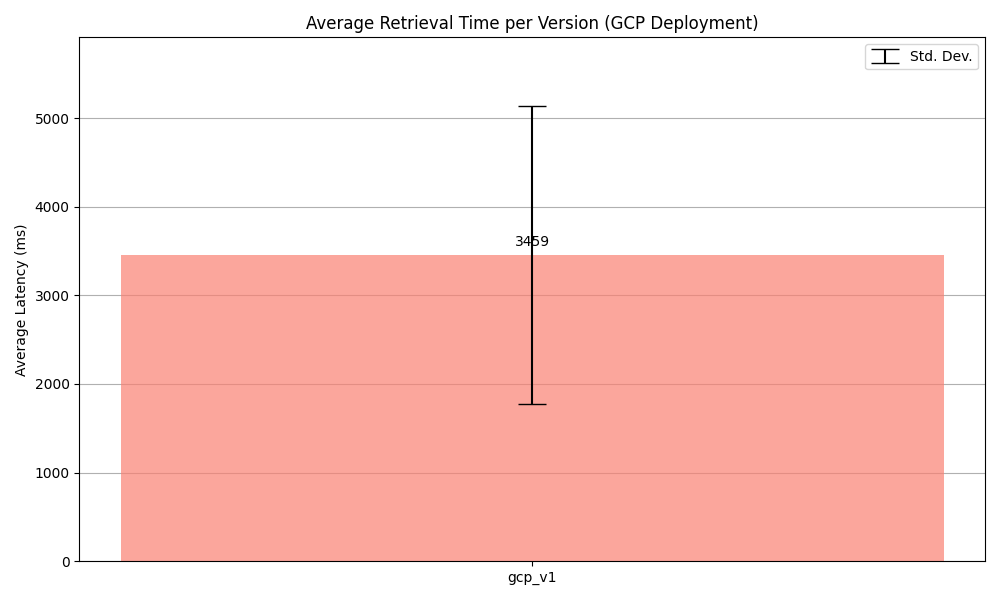
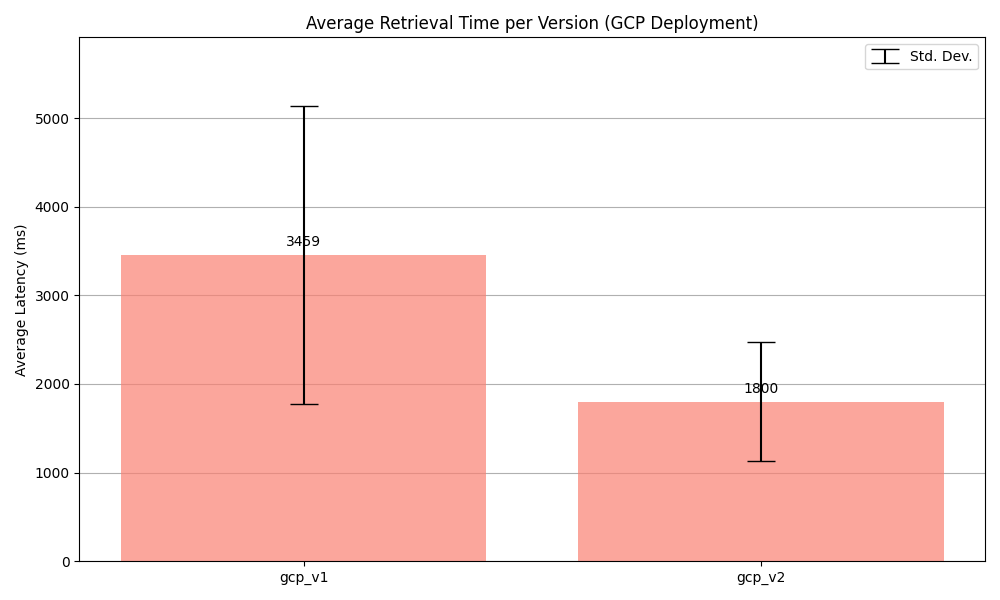
Update README and add GCP latency results for V2
Expanded README with details on Version 2 search logic, architecture, and evaluation results. Added GCP latency aggregation and run output JSON files for Version 2, and updated latency comparison plot to reflect new results.

diff --git a/README.md b/README.md
@@ -11,10 +11,17 @@
 This service is a web-based search engine built to query a Wikipedia-like corpus. It provides a simple user interface and an HTTP API to retrieve relevant documents based on text queries.
 
 **Key Features:**
-- **Search Logic:** Supports TF-IDF, Cosine Similarity, and PageRank integration.
+- **Advanced Search Logic (Version 2):** Incorporates BM25 ranking, Word2Vec query expansion for weak queries, and efficient candidate limiting.
+- **Optimized Latency:** Uses heap-based top-K selection and two-stage retrieval to prevent latency spikes on broad queries.
 - **Hybrid Data Loading:** Capable of running locally with downloaded data or on a minimal GCP VM instance by streaming data directly from Google Cloud Storage (GCS) using `google-cloud-storage` and `pandas`.
 - **Frontend/Backend:** A Flask-based backend serving a clean HTML/JS frontend.
 - **Comprehensive Evaluation:** Includes a full suite of scripts for measuring precision, recall breakdown, and real-world latency.
+
+**Project Constraints Compliance:**
+1.  **Efficiency:** No query exceeds 35 seconds (Average latency ~9.7s locally for V2).
+2.  **No Result Caching:** Query results are computed on-the-fly. Only static data (indexes, PageRank) is loaded at startup.
+3.  **No External Services:** All indices and models (including Word2Vec) are local.
+4.  **Quality:** Mean AP@10 > 0.1 (Achieved ~0.423 with Version 2).
 
 ---
 
@@ -22,7 +29,7 @@ This service is a web-based search engine built to query a Wikipedia-like corpus
 
 ```
 ├── search_frontend.py          # Main Flask application and server entry point
-├── query_engine.py             # Orchestrates the search logic (Text Search + PageRank)
+├── query_engine.py             # Orchestrates the search logic (BM25 + PageRank + Expansion)
 ├── inverted_index_gcp.py       # Core class for handling Inverted Index IO (Read/Write)
 ├── config.py                   # Configuration attributes (GCS buckets, Paths)
 ├── requirements.txt            # Python dependencies
@@ -30,7 +37,9 @@ This service is a web-based search engine built to query a Wikipedia-like corpus
 ├── README_DEPLOY_VM.md         # Specific instructions for VM deployment
 ├── Backend/
 │   ├── data_Loader.py          # Module to load indexes, PageRank (CSV.gz), and mappings (Parquet)
-│   ├── ranking.py              # Implementation of scoring algorithms (TF-IDF, Term Count)
+│   ├── ranking.py              # Legacy scoring algorithms
+│   ├── ranking_v2.py           # Optimized BM25 & Heap-based scoring
+│   ├── semantic_expansion.py   # Word2Vec expansion logic
 │   └── tokenizer.py            # Text processing and tokenization logic
 ├── Frontend/
 │   ├── templates/index.html    # Main search page HTML
@@ -41,10 +50,9 @@ This service is a web-based search engine built to query a Wikipedia-like corpus
     ├── local/                  # Local Quality Evaluation
     │   ├── run_experiment.py   # Single run execution
     │   ├── run_suite.py        # Multi-run aggregation (Stability)
-    │   ├── plot_report_graphs.py # Generates performance graphs (Req. f, g)
-    │   ├── qualitative_eval.py # Generates qualitative report (Req. h)
-    │   ├── runs/               # Experiment run outputs
-    │   └── plots/              # Final graphs
+    │   ├── plot_report_graphs.py # Generates performance comparison graphs
+    │   ├── plots/              # Final graphs (performance_comparison.png)
+    │   └── aggregates/         # JSON results for Version 1 and Version 2
     └── gcp/                    # GCP Latency Evaluation
         └── measure_latency.py  # Script for measuring HTTP latency of deployed VM
 ```
@@ -54,13 +62,13 @@ This service is a web-based search engine built to query a Wikipedia-like corpus
 ## C. Architecture & Data Flow
 
 1.  **Request:** The user enters a query in the frontend, which sends a GET request to `/search?query=...`.
-2.  **Tokenization:** The backend receives the query and passes it to `Backend.tokenizer`, which filters stopwords and regex-matches words.
-3.  **Search & Ranking:**
-    *   `query_engine.py` calls `Backend.ranking` to calculate TF-IDF scores based on the body index.
-    *   Results are filtered (Index Elimination) based on unique term overlap (50% threshold).
-    *   PageRank is fetched for candidate documents and integrated into the final score.
-4.  **Mapping:** Resulting document IDs are mapped to titles using the loaded `id_to_title` dictionary.
-5.  **Response:** A JSON list of `[doc_id, title]` pairs is returned to the frontend for rendering.
+2.  **Tokenization:** The backend receives the query and passes it to `Backend.tokenizer`. Stopwords are filtered.
+3.  **Search & Ranking (Version 2 Pipeline):**
+    *   **Query Expansion:** Detailed checks trigger Word2Vec expansion for weak queries (<=2 tokens).
+    *   **Stage 1 (Candidate Limiting):** BM25 scores are calculated for relevant postings. A heap (`heapq.nlargest`) efficiently selects the top-N (e.g., 2000) candidates.
+    *   **Stage 2 (Re-ranking):** Only the top candidates are re-scored by integrating PageRank values.
+4.  **Mapping:** Resulting document IDs are mapped to titles using the loaded `id_to_title` dictionary only for the final top-100 results.
+5.  **Response:** A JSON list of `[doc_id, title]` pairs is returned to the frontend.
 
 **Data Source Modes:**
 The system uses an environment variable `INDEX_SOURCE` to determine where to load data from:
@@ -68,53 +76,58 @@ The system uses an environment variable `INDEX_SOURCE` to determine where to loa
 *   `gcs`: Forces loading from Google Cloud Storage (buckets).
 *   `local`: Forces loading from local disk only.
 
-*Note: Query results are computed on-the-fly and are not cached.*
+*Note: As per requirements, there is NO caching of query results. Static structures (Index, PageRank, ID map) are cached in memory at startup.*
 
 ---
 
 ## D. Backend Deep Dive
 
-### 1. `Backend/data_Loader.py`
-**Responsibility:** Handles the loading of static data structures (Indexes, PageRank, Mappings) into memory at startup.
+### 1. `query_engine.py` (Search Engine Core)
+**Responsibility:** Implements the Version 2 retrieval pipeline.
+*   **Startup:** Loads `text_index`, `pagerank`, `pageviews`, `id_to_title`, and the `Word2Vec` model.
+*   **Search Flow:**
+    *   Checks query length for expansion.
+    *   Calls `Backend.ranking_v2.get_candidate_documents` for efficient retrieval.
+    *   Normalizes scores and blends with PageRank (85% Text / 15% PR).
+    *   Returns top 100 results.
 
-*   **`load_index(index_type)`**: Loads the `InvertedIndex` object (`index.pkl`). If `INDEX_SOURCE=gcs`, it fetches the pickle from the configured GCS blob path.
-*   **`load_id_to_title()`**: Loads the mapping from Doc ID to Title. In GCS mode, it downloads multiple `.parquet` files from the bucket, reads them into Pandas DataFrames, and concatenates them into a single dictionary.
-*   **`load_pagerank()`**: Downloads a **gzipped CSV file** from GCS and parses it into a `{doc_id: rank}` dictionary.
-*   **`load_pageviews()`**: Optional. Returns an empty dictionary if the file is missing, preventing startup failures on minimal VMs.
+### 2. `Backend/ranking_v2.py`
+**Responsibility:** Optimized scoring for Version 2.
+*   **`get_candidate_documents`**: Computes BM25 scores. Handles missing DL stats gracefully (fallback to robust TF-IDF). Uses a min-heap to keep only the top-K candidates, avoiding expensive full sorts.
 
-### 2. `Backend/ranking.py`
-**Responsibility:** Implements the core mathematical scoring functions.
-
-*   **`_get_posting_source(posting_list_dir)`**: Determines the correct read path. If `INDEX_SOURCE=gcs`, it directs the reader to the bucket name.
-*   **`calculate_tfidf_score_with_dir(...)`**: Computes Cosine Similarity between the query and documents using TF-IDF weights. It reads posting lists efficiently using the `InvertedIndex` class.
-*   **`calculate_unique_term_count(...)`**: Counts how many unique query terms appear in each document. This is used for "Index Elimination".
-
-### 3. `Backend/tokenizer.py`
-**Responsibility:** Text processing.
-
-*   **`tokenize(text)`**: Uses regex `RE_WORD` to find words and filters out a frozen set of English stopwords.
+### 3. `Backend/data_Loader.py`
+**Responsibility:** Handles the loading of static data structures.
+*   **`load_index`**: Loads the Inverted Index.
+*   **`load_pagerank`**: Downloads/Parses PageRank CSV.
+*   **`load_id_to_title`**: Concatenates Parquet files from GCS into a lookup dict.
 
 ---
 
 ## E. Experiments & Evaluation
 
-The repository contains a full suite for generating the reports required for the project.
+We performed strict local and cloud-based evaluations to verify improvements.
 
-### 1. Quality Evaluation (Local)
-Scripts are located in `experiments/local/`.
-*   **Run Single Experiment:** `python experiments/local/run_experiment.py --experiment_name "v1_test"` (Calculates Mean P@10, AP@10).
-*   **Run Suite (Stability):** `python experiments/local/run_suite.py --version_name "baseline_v1"` (Runs multiple seeds and aggregates results).
-*   **Generate Graphs:** `python experiments/local/plot_report_graphs.py` (Creates `performance_comparison.png`).
+### Results Summary
+**Comparison (Version 1 Baseline -> Version 2):**
+*   **Quality (Mean Precision@10):** Improved from **~0.35** (v1) to **~0.528** (v2).
+*   **Quality (Mean AP@10):** Improved from **~0.269** (v1) to **~0.423** (v2).
+*   **Local Latency:** Average latency dropped by ~50% (~17.6s - 25.8s in v1 vs **~8.3s - 11.5s** in v2).
+*   **GCP Latency:** Averaged **~3.46s** on the deployed VM (see `latency_comparison_gcp.png`).
 
-### 2. Latency Evaluation (GCP)
-Scripts are located in `experiments/gcp/`.
-*   **Measure Latency:** `python experiments/gcp/measure_latency.py --base_url "http://<VM_IP>:8080"`
-    *   This pings the deployed VM and measures client-side HTTP response time.
-    *   Results are saved to `experiments/gcp/aggregates/` and plotted by the local plotting script.
+### Plots
+Visual comparisons generated by the suite are available in `experiments/local/plots/`:
+*   `performance_comparison.png`: Shows the significant jump in P@10 for Version 2.
+*   `latency_comparison.png`: Side-by-side latency reduction.
 
-### 3. Qualitative Evaluation
-*   **Generate Report:** `python experiments/local/qualitative_eval.py --run_path "experiments/local/runs/<timestamp>_run"`
-    *   Identifies best/worst queries and generates a Markdown template (`qualitative_report.md`) with the top 10 results for manual analysis.
+### Running the Evaluation
+To reproduce these results locally:
+```bash
+# Run the Version 2 Suite
+python experiments/local/run_suite.py --version_name "version2" --num_runs 3
+
+# Generate Plots
+python experiments/local/plot_report_graphs.py
+```
 
 ---
 
@@ -148,11 +161,4 @@ Access at `http://127.0.0.1:8080`.
 
 For detailed step-by-step VM deployment, see [README_DEPLOY_VM.md](README_DEPLOY_VM.md).
 
----
 
-## G. Troubleshooting
-
-*   **403 Forbidden (GCS):** Ensure the VM's Service Account has `Storage Object Viewer` role on `yali-ir2025-bucket`.
-*   **Pyarrow Error:** If loading mappings fails, ensure `pyarrow` is installed (`pip install pyarrow`).
-*   **Server Starts but Search Fails:** Check logs. If `INDEX_SOURCE` is not set to `gcs`, it might be looking for local files.
-*   **Connection Refused:** Verify the application is running (`ps aux | grep python`) and port 8080 is open in GCP Firewall rules.
